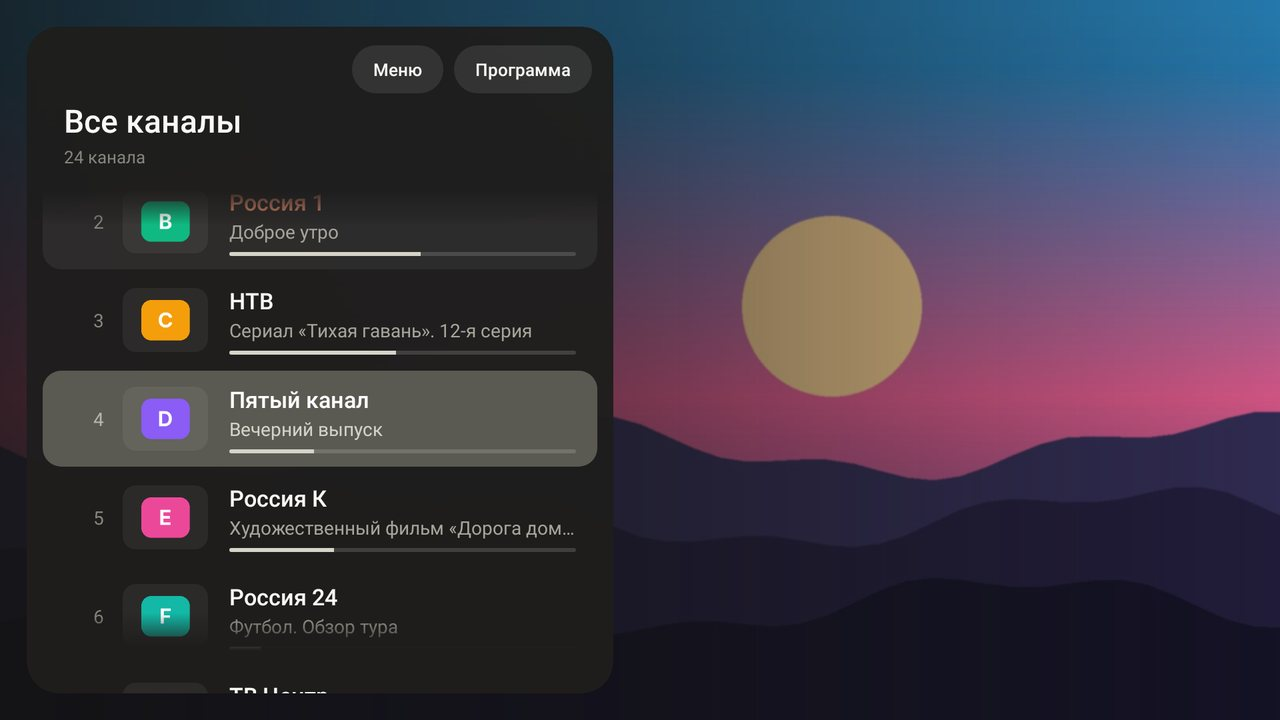
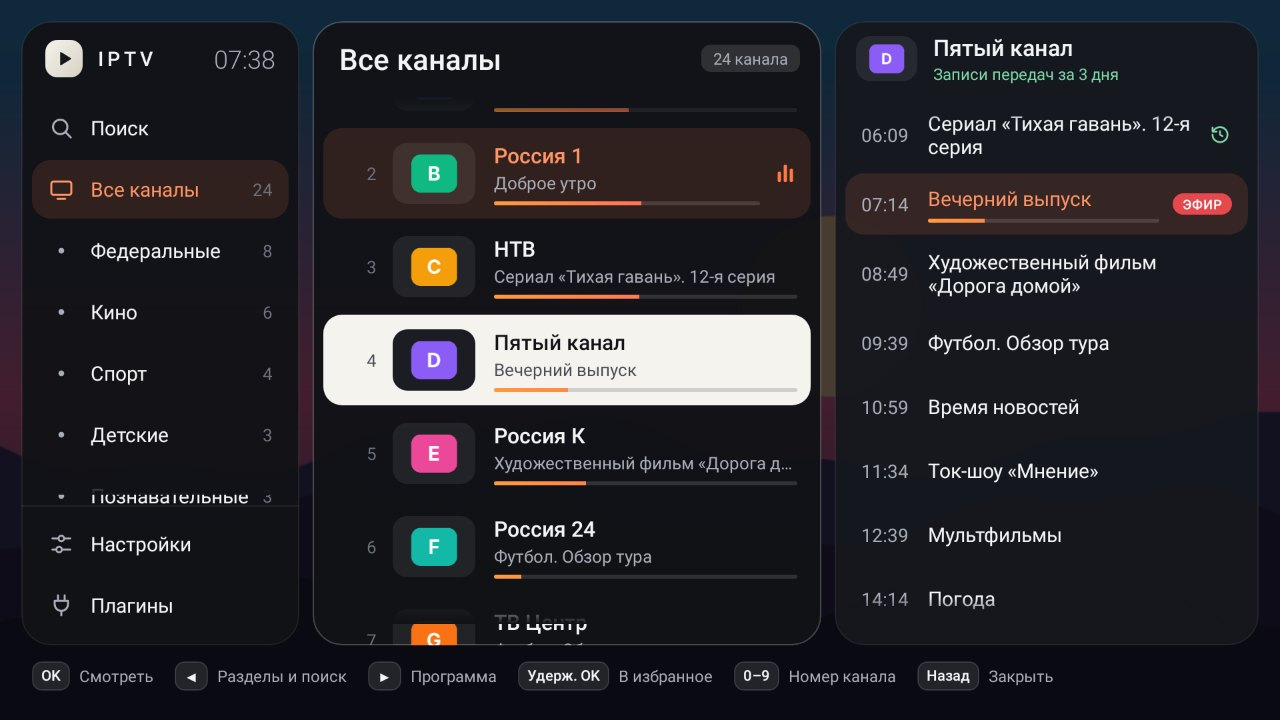
Скриншоты и документация под новый интерфейс; правки по итогам просмотра экранов
- README: управление, ввод номера с подсказками, разделы, мышь и телефон
- Картинки пересняты; ТВ-экраны теперь снимаются в режиме телевизора
- Настройки на Android: строка «Плагины», экран помещается целиком
- Сообщения поверх гида показываются внизу и не закрывают заголовки
- Телевизор определяется и по режиму экрана (uiMode)

Claude-Session: https://claude.ai/code/session_01B1ShhNs2PtAJke7Bot6iSF

diff --git a/README.md b/README.md
@@ -14,16 +14,18 @@
 
 [Скачать](#скачать) · [Установка](#установка) · [Управление](#управление) · [Плагины](#плагины) · [Вопросы](#вопросы-и-ответы)
 
-<img src="docs/img/tv-channels.jpg" width="820" alt="Список каналов поверх эфира">
+<img src="docs/img/tv-channels.jpg" width="820" alt="Гид: разделы, каналы и телепрограмма на одном экране">
 
 </div>
 
 ## Что умеет
 
+- **Всё на одном экране** — разделы, каналы и телепрограмма видны сразу, а внизу подсказано, какая кнопка что делает
 - **Каналы по группам** — с логотипами и текущей передачей прямо в списке
+- **Умный ввод номера** — нажали «1» и видите каналы 1, 10, 11, 12… с названием и логотипом; выбираете стрелками или просто ждёте
 - **Телепрограмма** — на сегодня, вчера и завтра; берётся из плейлиста сама
 - **Записи передач** — прошедшую передачу можно включить с начала, перемотать и поставить на паузу (если провайдер хранит записи)
-- **Поиск** по названию канала и **избранное**
+- **Поиск** по названию или номеру канала и **избранное**
 - **Запуск с последнего канала** — включили и сразу смотрите
 - **Плагины** — свой файл `.js` с GitHub меняет список каналов или адреса потоков
 - **Обновления** — на Android ставятся в пару нажатий, остальные версии сообщают о новой
@@ -49,22 +51,26 @@
 
 <table>
 <tr>
-<td><img src="docs/img/tv-live.jpg" alt="Эфир"><br><sub>Эфир: что идёт сейчас и что дальше</sub></td>
-<td><img src="docs/img/tv-programme.jpg" alt="Телепрограмма"><br><sub>Телепрограмма канала</sub></td>
+<td><img src="docs/img/tv-live.jpg" alt="Эфир"><br><sub>Эфир: что идёт сейчас, что дальше и какие кнопки что делают</sub></td>
+<td><img src="docs/img/tv-number.jpg" alt="Ввод номера канала"><br><sub>Номер канала: набрали «1» — видно, какие каналы подходят</sub></td>
 </tr>
 <tr>
+<td><img src="docs/img/tv-programme.jpg" alt="Телепрограмма"><br><sub>Телепрограмма канала и записи прошедших передач</sub></td>
 <td><img src="docs/img/tv-archive.jpg" alt="Запись передачи"><br><sub>Запись передачи: перемотка и пауза</sub></td>
-<td><img src="docs/img/tv-menu.jpg" alt="Меню"><br><sub>Меню: поиск, настройки, плагины, группы</sub></td>
 </tr>
 <tr>
-<td><img src="docs/img/tv-search.jpg" alt="Поиск"><br><sub>Поиск по названию</sub></td>
-<td><img src="docs/img/desktop-plugins.jpg" alt="Плагины"><br><sub>Плагины</sub></td>
+<td><img src="docs/img/tv-menu.jpg" alt="Разделы"><br><sub>Разделы: поиск, избранное, группы; настройки и плагины — внизу</sub></td>
+<td><img src="docs/img/tv-search.jpg" alt="Поиск"><br><sub>Поиск по названию или номеру</sub></td>
+</tr>
+<tr>
+<td><img src="docs/img/desktop-live.jpg" alt="Кнопки для мыши"><br><sub>Компьютер: подвигали мышью — появились кнопки</sub></td>
+<td><img src="docs/img/desktop-programme.jpg" alt="Гид на компьютере"><br><sub>Компьютер: всё нажимается мышью, список листается колесом</sub></td>
 </tr>
 </table>
 
 <div align="center">
 <img src="docs/img/phone.jpg" width="820" alt="Версия для телефона"><br>
-<sub>Телефон: видео сверху, каналы под ним. Повернёте телефон — видео развернётся на весь экран.</sub>
+<sub>Телефон: видео сверху, под ним вкладки «Каналы» и «Программа», группы в один ряд, поиск и настройки — значками. Повернёте телефон — видео развернётся на весь экран.</sub>
 </div>
 
 <sub>На скриншотах тестовые данные: вместо видео картинка, вместо логотипов цветные плашки. В приложении показываются логотипы из вашего плейлиста.</sub>
@@ -268,35 +274,42 @@ chmod +x iptv-linux.AppImage
 
 ## Управление
 
+Запоминать ничего не нужно: внизу экрана всегда написано, что сейчас делают кнопки.
+
 ### Пульт и клавиатура
 
 На компьютере пульт заменяют стрелки, Enter и Esc; F11 — на весь экран.
 
-| Кнопка | Когда смотрите канал | В списке |
+| Кнопка | Когда смотрите канал | В гиде (список каналов) |
 |---|---|---|
-| **ОК** | открыть список каналов | включить канал или передачу |
+| **ОК** | открыть гид: разделы, каналы и программа | включить канал или передачу |
 | **▲ ▼** | следующий и предыдущий канал | листать |
-| **◀** | список каналов | меню: поиск, настройки, плагины, группы |
-| **▶** | телепрограмма канала | телепрограмма выбранного канала |
-| **Цифры** | канал по номеру | |
-| **Удержать ОК** | | добавить в избранное или убрать |
+| **◀ ▶** | ◀ — гид, ▶ — телепрограмма канала | перейти в соседнюю колонку: разделы ◀ каналы ▶ программа |
+| **Цифры** | номер канала с подсказками | то же самое |
+| **Удержать ОК** | | добавить канал в избранное или убрать |
 | **Назад** | дважды — выход | закрыть |
+
+**Номер канала.** Нажмите цифру — справа появятся каналы, чей номер с неё начинается: например, после «1» это 1, 10, 11, 12, 13. Дальше можно набрать вторую цифру, выбрать канал стрелками ▲▼ и нажать ОК или просто подождать пару секунд — включится выделенный. ◀ стирает цифру, «Назад» отменяет ввод.
+
+**Разделы.** В левой колонке — «Поиск», «Избранное», «Все каналы» и группы из плейлиста; «Настройки» и «Плагины» закреплены внизу. Список идёт по кругу: с «Поиска» вверх — сразу к «Плагинам».
 
 **Записи передач.** В телепрограмме прошедшие передачи со значком ⟲ можно посмотреть с начала. Во время просмотра ◀ ▶ перематывают на 30 секунд, ОК ставит на паузу, «Назад» возвращает прямой эфир.
 
+**Цветные кнопки** (если они есть на пульте): красная — поиск, зелёная — избранное, жёлтая — телепрограмма, синяя — настройки.
+
 ### Мышь
 
-Щелчок по экрану открывает список каналов, щелчок мимо него — закрывает. Щелчок по заголовку списка открывает меню, значок рядом с каналом — телепрограмму. Правая кнопка добавляет канал в избранное. Колесо листает.
+Подвигайте мышью — поверх эфира появятся кнопки «Каналы», «Программа», «Поиск», переключение каналов, настройки и «на весь экран». В гиде всё нажимается: канал, передача, звёздочка избранного в строке канала, подсказки внизу. Колесо листает списки, правая кнопка добавляет канал в избранное. Чтобы найти канал, просто начните печатать его название.
 
 ### Телефон
 
-Держите телефон вертикально — видео сверху, каналы под ним; кнопки «Меню» и «Программа» над списком. Долгое нажатие на канал добавляет его в избранное. Поверните телефон горизонтально — видео развернётся на весь экран, касание покажет список.
+Держите телефон вертикально — видео сверху, под ним вкладки «Каналы» и «Программа». Группы идут одним рядом над списком, поиск и настройки — значками справа. Звёздочка в строке добавляет канал в избранное. Поверните телефон горизонтально — видео развернётся на весь экран, касание покажет ту же карточку поверх видео.
 
 ## Плагины
 
 Плагин — файл `.js`, который меняет список каналов или адрес потока: спрятать ненужные группы, отсортировать каналы, переименовать, дописать параметр к адресу. Один и тот же плагин работает во всех версиях приложения.
 
-**Подключить:** меню → **Плагины** → вставить ссылку на файл, например:
+**Подключить:** гид → **Плагины** (внизу левой колонки; на телефоне — в настройках) → вставить ссылку на файл, например:
 
 ```
 https://github.com/volnalabs/IPTV/blob/main/plugins/sort-by-name.js

diff --git a/docs/PLUGINS.md b/docs/PLUGINS.md
@@ -12,7 +12,7 @@
 
 ## Как подключить плагин
 
-1. Откройте список каналов и перейдите в меню: на пульте — кнопка ◀, на телефоне — кнопка «Меню».
+1. Откройте гид (кнопка ОК) и перейдите в левую колонку кнопкой ◀. На телефоне откройте настройки — значок справа над списком каналов.
 2. Выберите **Плагины**.
 3. Вставьте ссылку на файл плагина и подтвердите.
 
